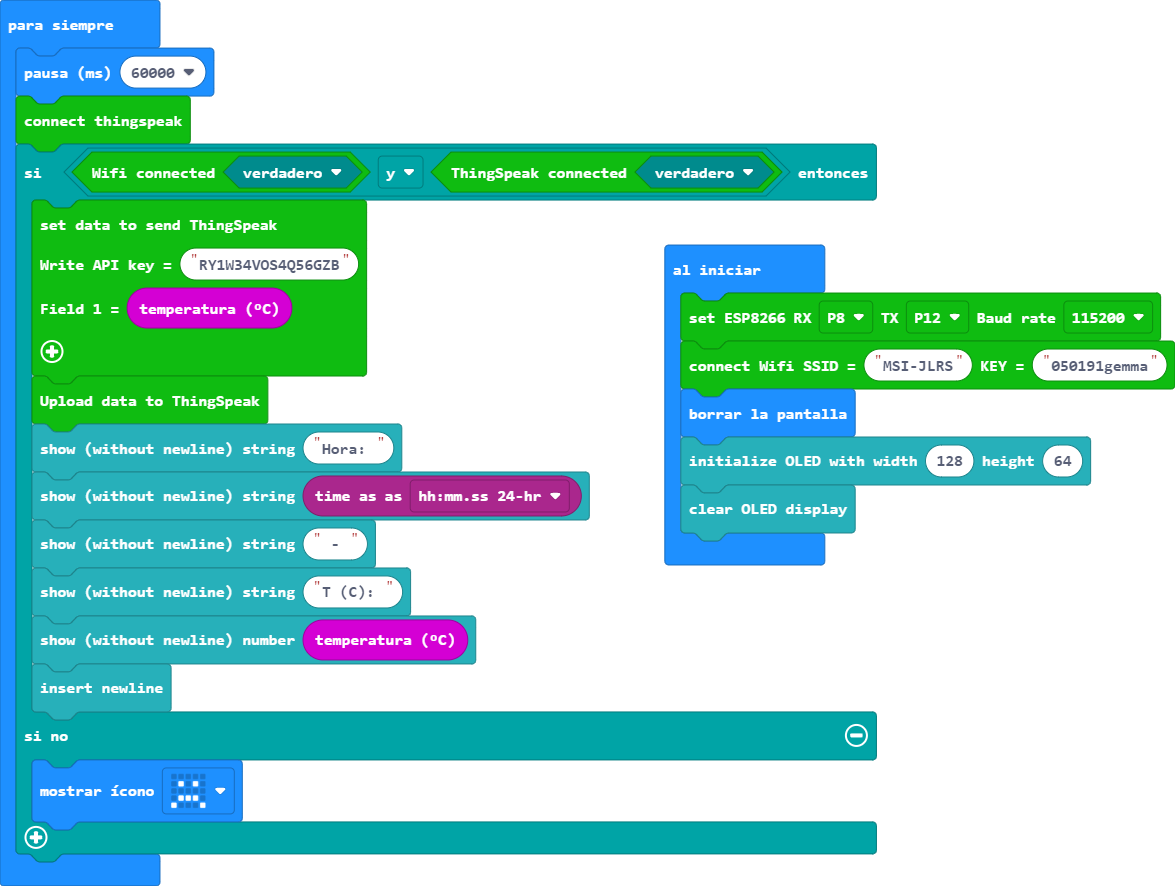
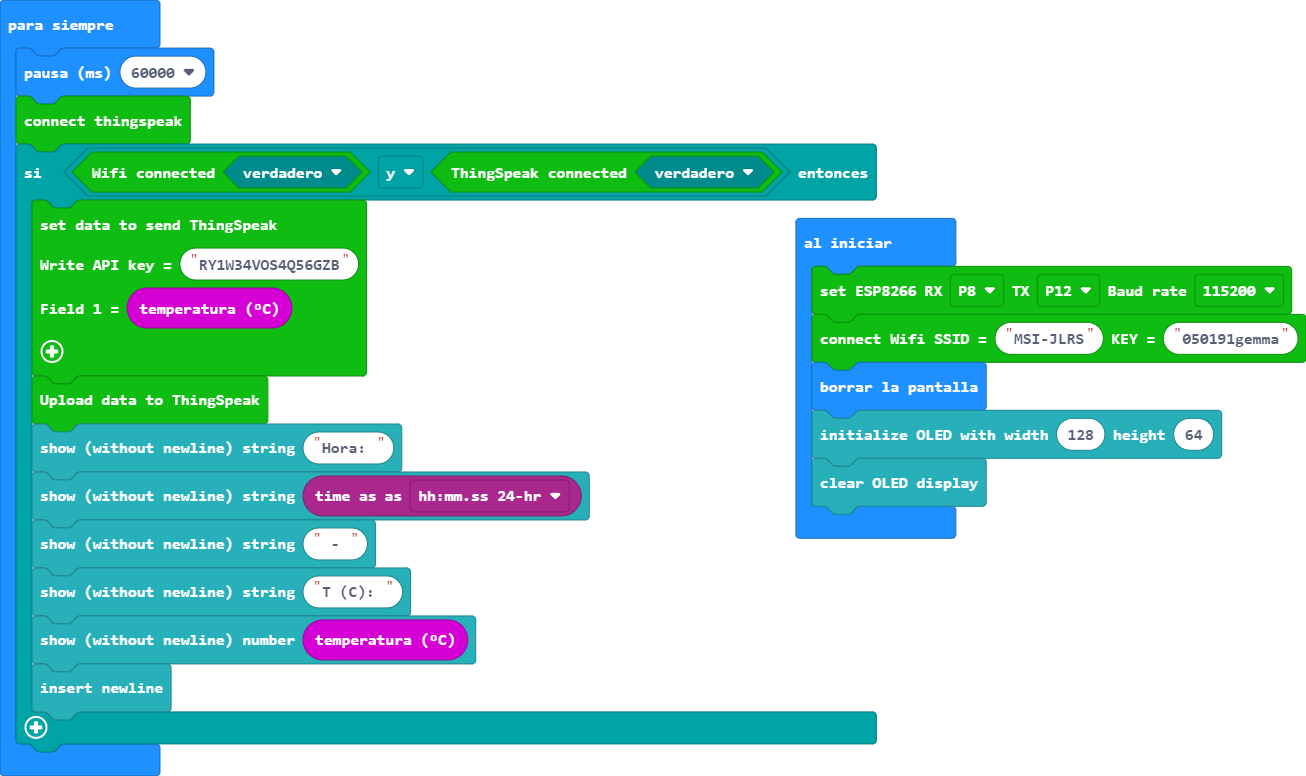
Actualizar main.blocks, main.ts

diff --git a/main.ts b/main.ts
@@ -18,7 +18,5 @@ basic.forever(function () {
         OLED.writeString("T (C): ")
         OLED.writeNum(input.temperature())
         OLED.newLine()
-    } else {
-        basic.showIcon(IconNames.Sad)
     }
 })
